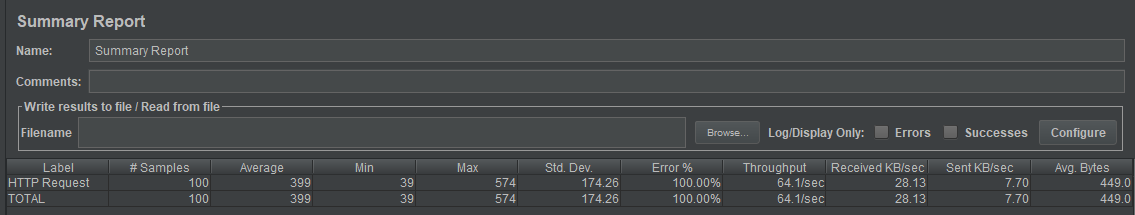
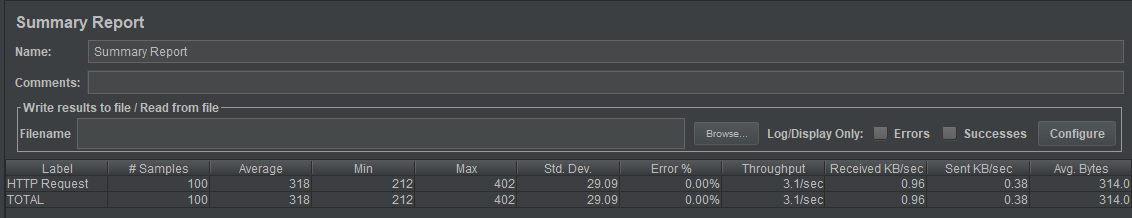
Add README.md

diff --git a/tugas-eas/README.md b/tugas-eas/README.md
@@ -155,10 +155,10 @@ Terdapat 6 Server yang digunakan pada Tugas EAS dengan pembagian IP dan Spesifik
 - Masuk kedalam Node 3 dengan perintah `vagrant ssh node3`, jalankan perintah berikut
     ```bash
     cd tidb-v3.0-linux-amd64
-    ./bin/pd-server --name=pd2 \
+    ./bin/pd-server --name=pd3 \
                     --data-dir=pd \
-                    --client-urls="http://192.168.16.34:2379" \
-                    --peer-urls="http://192.168.16.34:2380" \
+                    --client-urls="http://192.168.16.35:2379" \
+                    --peer-urls="http://192.168.16.35:2380" \
                     --initial-cluster="pd1=http://192.168.16.33:2380,pd2=http://192.168.16.34:2380,pd3=http://192.168.16.35:2380" \
                     --log-file=pd.log &
 
@@ -212,6 +212,12 @@ Aplikasi dapat dilihat di [sini](api/rest.py)
 ## Uji Performa Aplikasi
 
 ### Uji menggunakan JMeter
+- 100 
+  ![JMeter100](img/JMeter100.PNG)
+- 500
+  ![JMeter100](img/JMeter500.PNG)
+- 1000
+  ![JMeter100](img/JMeter1000.PNG)
 ### Uji menggunakan Sysbench
 Hasil uji coba `sysbench` dapat dilihat dilihat pada file 
 - 1 PD -> [point_select_run_100_1.log](sysbench/point_select_run_100_1.log)
@@ -308,6 +314,29 @@ Kesimpulan :\
 Semakin banyak PD yang digunakan performa read meningkat, tetapi tidak meningkat secara signifikan.
 
 ### Uji Fail Over
+1. Cek leader pada PD Cluster di node manapun, dengan mengetikkan
+    ```
+    curl http://192.168.16.33:2379/pd/api/v1/members
+    ```
+    Sehingga didapatkan hasil sebagai berikut \
+    ![Leader1](img/Leader1.PNG) \
+
+    Dapat dilihat pada `leader` bahwa leader sekarang berada pada pd2
+2. Masuk kedalam pd2 dengan `vagrant ssh node2` dan matikan pd nya.
+   ```
+   ps -aux | grep pd
+   ```
+   kemudian cari pid dari `pd-server` dan ketikkan
+   ```
+   sudo kil -9 <pid>
+   ```
+3. Kemudian cek leader pada PD CLuster, dengan mengetikkan
+   ```
+   curl http://192.168.16.33:2379/pd/api/v1/members
+   ```
+   Sehingga didapatkan hasil sebagai berikut \
+   ![Leader2](img/Leader2.PNG) \
+   Dapat dilihat pada `leader` bahwa leader sekarang berada pada pd1
 
 ## Monitoring menggunakan Grafana
 ### Menginstall Node Exporter, Prometheus, dan Grafana
